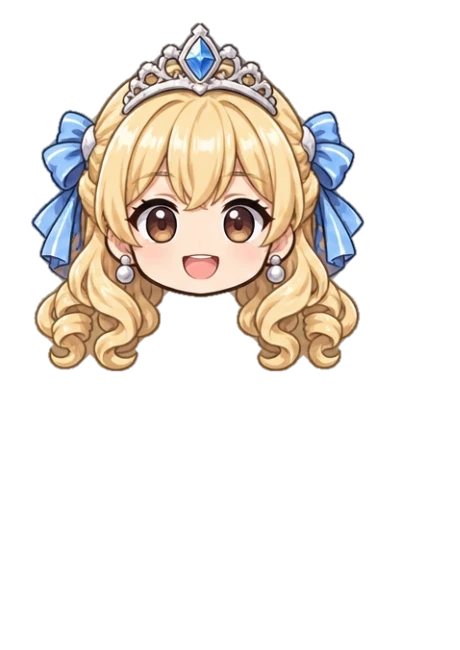
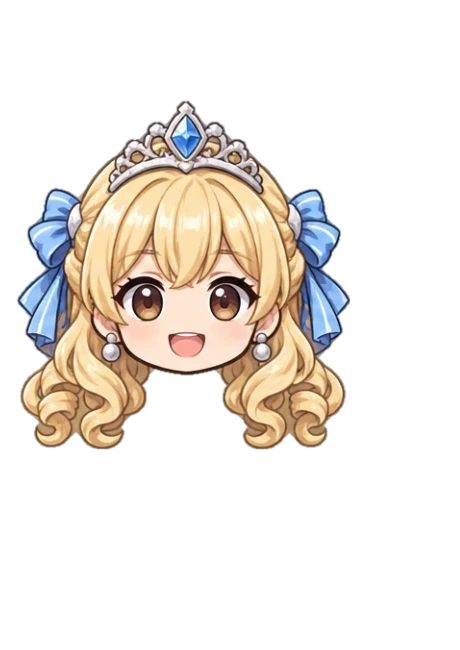
アバター手直しの2回目（縦ロールの姫は顔の肌色で合わせる・ほか8種）
Claude-Session: https://claude.ai/code/session_01VHjFEfwVTHCUbPqPQAxvxE

diff --git a/tools/avatar-v3/neckfix.py b/tools/avatar-v3/neckfix.py
@@ -19,6 +19,7 @@ def neck(p):
             top8 = mk[:10]; xx = np.nonzero(top8.any(0))[0]; best = (y0, sl[1].start + (xx.min() + xx.max()) / 2 if len(xx) else mx)   # 首の上はし10段のまん中
     return best, h, bot
 DROP = {'b166', 'b67', 'b68', 'b79', 'b82', 'b102', 'b103', 'b113', 'b117', 'b163', 'b169'}   # 廃棄（2026/11/15）
+BODYFIX = {'b170': (15, 0), 'b164': (15, 0), 'b119': (15, 0), 'b90': (0, -15)}   # 目で見て直したもの（横, 縦）
 NOHEAD = {'b89', 'b90', 'b97', 'b166'}
 MANUAL = {'b85': 1.18}   # 首が見えず、肌色のまちがいを拾う服（手と足で合わせる）
 def feetx(p):
@@ -43,4 +44,5 @@ for arg in sys.argv[1:]:
             top, cx, hy, hw = h; s = (FEET - NECK - HAND_Y) / (bot - hy); ny = hy - HAND_Y / s; how = 'hands+feet'; cx = feetx(p)
         else:
             ys, xs = np.nonzero(p[..., 3] > 128); s = (FEET - NECK) / (bot - ys.min()); ny = ys.min(); cx = feetx(p); how = 'feet'
-        put(p, s, 200 - cx * s, NECK - ny * s, name); print(name, how, round(s, 3))
+        fx, fy = BODYFIX.get(name, (0, 0))
+        put(p, s, 200 - cx * s + fx, NECK - ny * s + fy, name); print(name, how, round(s, 3))

diff --git a/tools/avatar-v3/place3.py b/tools/avatar-v3/place3.py
@@ -45,7 +45,7 @@ print('hand y', HAND_Y, 'hand span', HAND_W)
 import sys
 PRE, NH, H0, NB, B0 = sys.argv[1], int(sys.argv[2]), int(sys.argv[3]), int(sys.argv[4]), int(sys.argv[5])
 FEETONLY = 'feet' in sys.argv[6:]   # 足まで描いてある服は、首から足でそろえる（手で合わせると浮く）
-FIX3 = {'h95': (1.1, 0), 'h74': (1, 14), 'h92': (1, 35), 'h97': (1, 18, 44), 'h101': (1, 53), 'h109': (1, 53), 'h117': (1, 0, -35), 'h118': (1, 35), 'h145': (1, 70), 'h193': (1, 27), 'h194': (1, 35), 'h203': (1, 35), 'h209': (1, 44), 'h226': (1, 32)}   # 目で見て直したもの（大きさ・下へ）
+FIX3 = {'h95': (1.1, 0), 'h74': (1, 37), 'h92': (1, 35), 'h97': (1, 18, 44), 'h101': (1, 53), 'h109': (1, 78), 'h117': (1, 0, -35), 'h118': (1, 35, 20), 'h145': (1, 70), 'h193': (1, 27), 'h194': (1, 35), 'h203': (1, 35), 'h209': (1, 60), 'h226': (1, 32)}   # 目で見て直したもの（大きさ・下へ）
 heads = []
 for k in range(NH):
     p = np.asarray(Image.open(f'cut/{PRE}h{k:02d}.png')); name = f'h{H0 + k}'

diff --git a/tools/avatar-v3/adjust.py b/tools/avatar-v3/adjust.py
@@ -2,7 +2,7 @@
 #   ADJ: id → (横, 縦, 大きさ)。何度動かしても orig から作るので、ずれがたまらない
 import os, shutil, numpy as np
 from PIL import Image
-ADJ = {'h16': (0, -106, 1), 'h36': (0, -35, 1), 'h61': (0, 27, 1)}
+ADJ = {'h16': (-14, -28, 1), 'h36': (0, -35, 1), 'h61': (0, 27, 1)}
 os.makedirs('orig', exist_ok=True)
 for k, (dx, dy, s) in ADJ.items():
     src = f'../../img/av3/{k}.webp'
